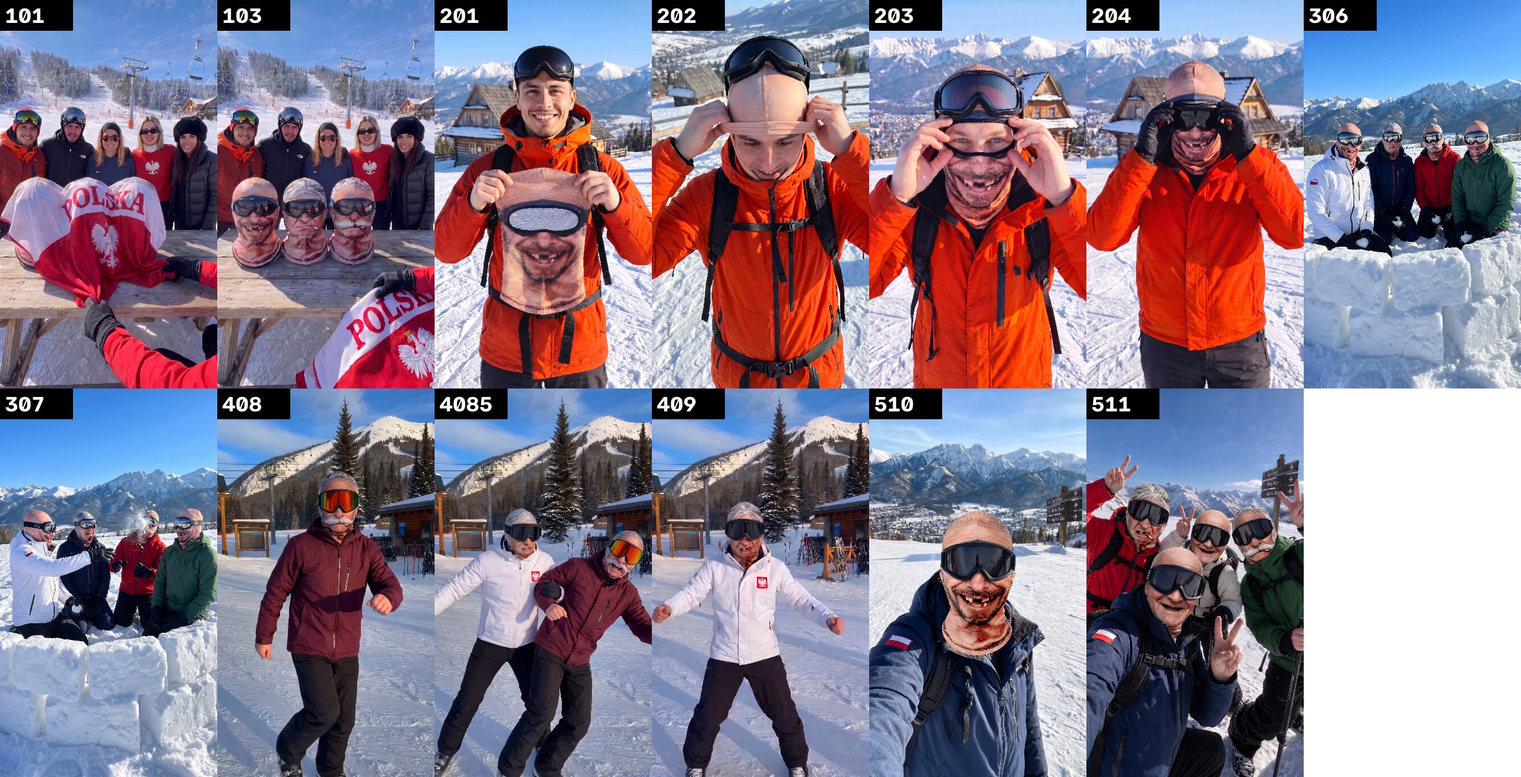
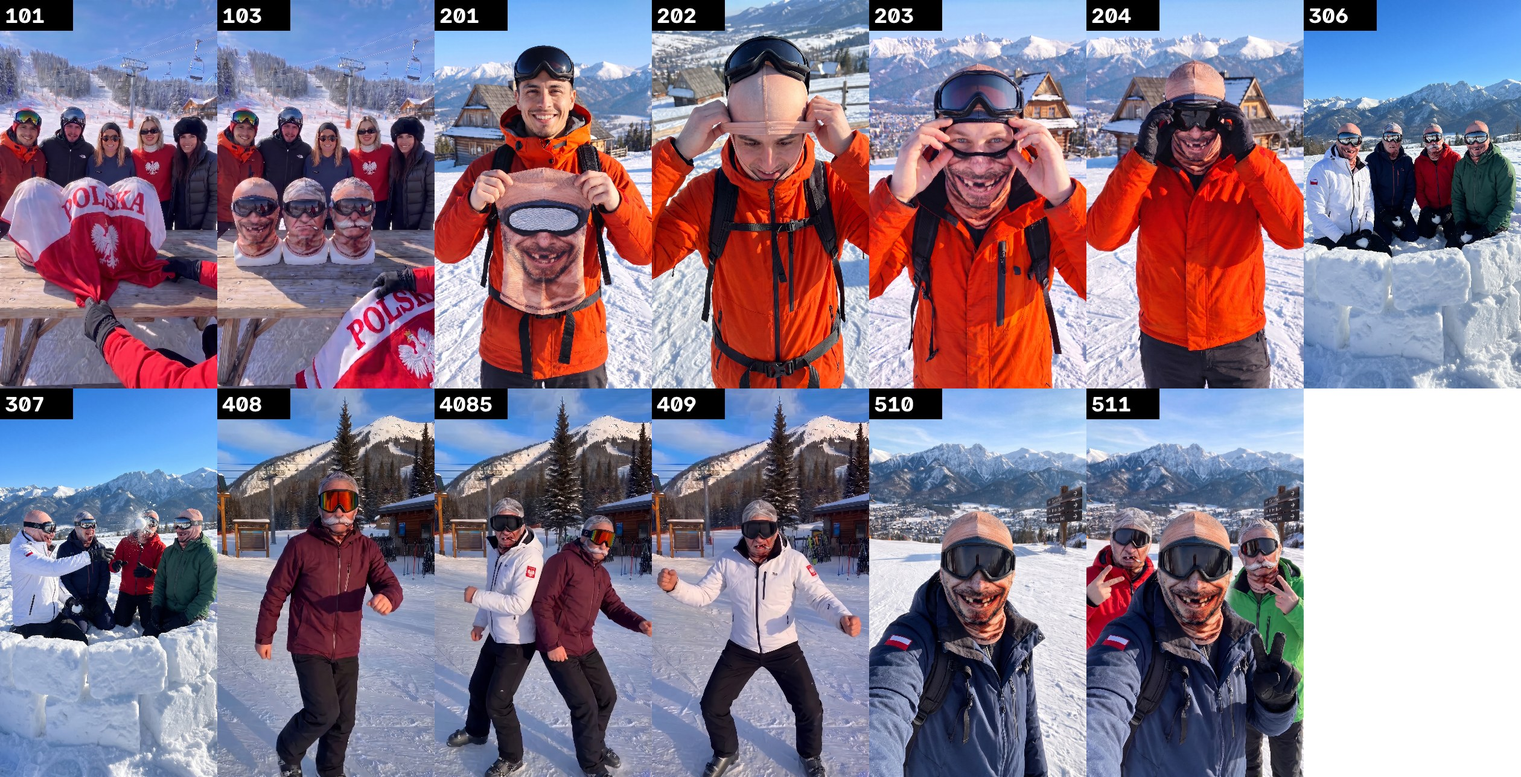
Projekt 1 v2: maski 1:1 z produktem w 103, 408-409, 510, 511
Claude-Session: https://claude.ai/code/session_01CjMqKH8kTrxCHLeTiEBgfX

diff --git a/docs/projekty/kominiarki-zakopane/STAN.md b/docs/projekty/kominiarki-zakopane/STAN.md
@@ -81,19 +81,19 @@ Prośba użytkownika: odtworzyć rolkę konkurencji 1:1, ale z naszym produktem,
 ### Klatki v2 (Nano Banana Pro, 36 kr + poprawki 10.11: 103, 307, 4085, 510, 511 i dalej 103, 101 ×3, 307 ×2, 4085, 409 ×2 – razem ok. 30 kr) – `v2_klatki.jpg`
 | Klatka | Opis | Job |
 |---|---|---|
-| 101 | hook start, koc POLSKA na 3 głowach (3 zarysy), tło przypięte do 103 (plik lokalny `L_101.png`, przed wideo wgrać jako media) | `1dd7bd07-df8c-4554-97a8-e81f20fe7324` |
-| 103 | odsłonięcie: dokładnie 3 głowy A/B/C w goglach, 5 znajomych, sweter z orłem | `3f573154-3ee8-4dea-9cf1-8b150a484183` |
+| 101 | koc POLSKA na 3 głowach, tło przypięte do 103 v3 (lokalnie `p5/L2_101.png`, przed wideo wgrać jako media) | `1dd7bd07-df8c-4554-97a8-e81f20fe7324` |
+| 103 | 3 głowy na białych manekinach, A/B/C 1:1 z produktem | `8737b92e-05c3-47ea-92b1-16a3977fc12b` |
 | 201 | maska przy piersi, gogle na czole (pomarańczowa kurtka, wzór A) | `9dc41035-137c-41c5-862e-e7cfc1c71c9a` |
 | 202 | maska na czubku głowy | `d7c6c08d-4ac5-411a-baf5-475352ff9d96` |
 | 203 | oczy widoczne, gogle na czole | `ae90a8df-7fdd-4e71-9db4-98562afe650b` |
 | 204 | gogle na oczach | `f839b47e-5eb1-4fdb-a9a8-b7643ed5fbdc` |
 | 306 | śnieżki: biała z flagą, granatowa, czerwona, zielona | `4f21ac34-301f-46df-9f2a-ec3ae950097f` |
 | 307 | trafienie śnieżką wielkości pięści, z kadru 306 (ta sama ściana) | `7259f143-8b4c-4eb8-aecd-ebb406fe269b` |
-| 408 | taniec, bordowa kurtka, wzór C | `e928369a-2d15-4a79-ac22-96ce7bb5bb4e` |
-| 4085 | wypchnięcie przez białą kurtkę z orłem, wzór B + czarne gogle, to samo miejsce co 408 | `60d016dc-50ba-4b77-9caa-5b093e678cbd` |
-| 409 | biała kurtka tańczy sama, czarne gogle, tło z 4085 | `17769d9a-e637-4e9d-ab62-1e09d11233c2` |
-| 510 | selfie, granatowa kurtka z flagą, wzór A, matowe czarne gogle | `5e11326b-ce28-48f1-83d0-e6ea0e4084ee` |
-| 511 | grupa wskakuje do selfie, matowe czarne gogle u wszystkich | `8bdd9b63-7d52-44f8-bb6f-2960704d7ff8` |
+| 408 | bordowa kurtka, maska C 1:1 (zaczesane włosy, wąs, szlug) | `2eebabff-9e8c-442c-b893-a2d6e33dfc6c` |
+| 4085 | biała kurtka z orłem wypycha bordową, maska B 1:1 (skrzywiony, szlug, bez wąsa) + czarne gogle | `a8d54402-8fd7-4831-b539-d98eeed90464` |
+| 409 | biała kurtka tańczy sama, maska B | `d5028a84-c567-44ed-b726-a21b64a4e8b4` |
+| 510 | selfie, granatowa kurtka z flagą, maska A, szyja w kołnierzu | `efb28167-560a-4b1a-ab57-83b5690ae0bc` |
+| 511 | selfie: dokładnie 3 osoby A (granat), B (czerwona), C (zielona); złożone lokalnie (`p5/f511.png`: baza `043be499`, twarz A z 510, głowa B z `bafe6c5b`), przed wideo wgrać jako media | lokalnie |
 
 ### Kadry konkurencji (media)
 | Kadr | Media |
@@ -111,3 +111,10 @@ Prośba użytkownika: odtworzyć rolkę konkurencji 1:1, ale z naszym produktem,
 
 ### Miro
 Ramka P1v2 `3458764689945840110` (y = 16600), arkusz klatek `3458764689946836564`.
+
+### Poprawki v3 (10.11, po uwagach użytkownika: produkt nie 1:1, „wklejone w paincie”)
+- Zasada: każda maska dostaje zdjęcie swojego produktu (A `8fbcf69d`, B `f48de878`, C `a80871bf`) i wzór realizmu z projektu 2 (`bea656cf` trójka, `8f25129c` H2). W prompcie: nadruk jest nieruchomy, cienki elastyczny poliester z lekkim połyskiem, szyja schowana w kołnierz, światło i cienie ze słońca sceny, bez HDR.
+- Gdy edycja psuje inną maskę (model zamienia A na B), składam lokalnie z elipsą i miękką krawędzią.
+- Koszt v3: ok. 34 kr.
+- Porównanie z produktem: `v2_maski_zblizenia.jpg` (Miro `3458764689947710122`), arkusz klatek `3458764689947710111`.
+- Do sprawdzenia przed wideo: maski w 306/307 (A/B/C/A) przy zbliżeniu.
